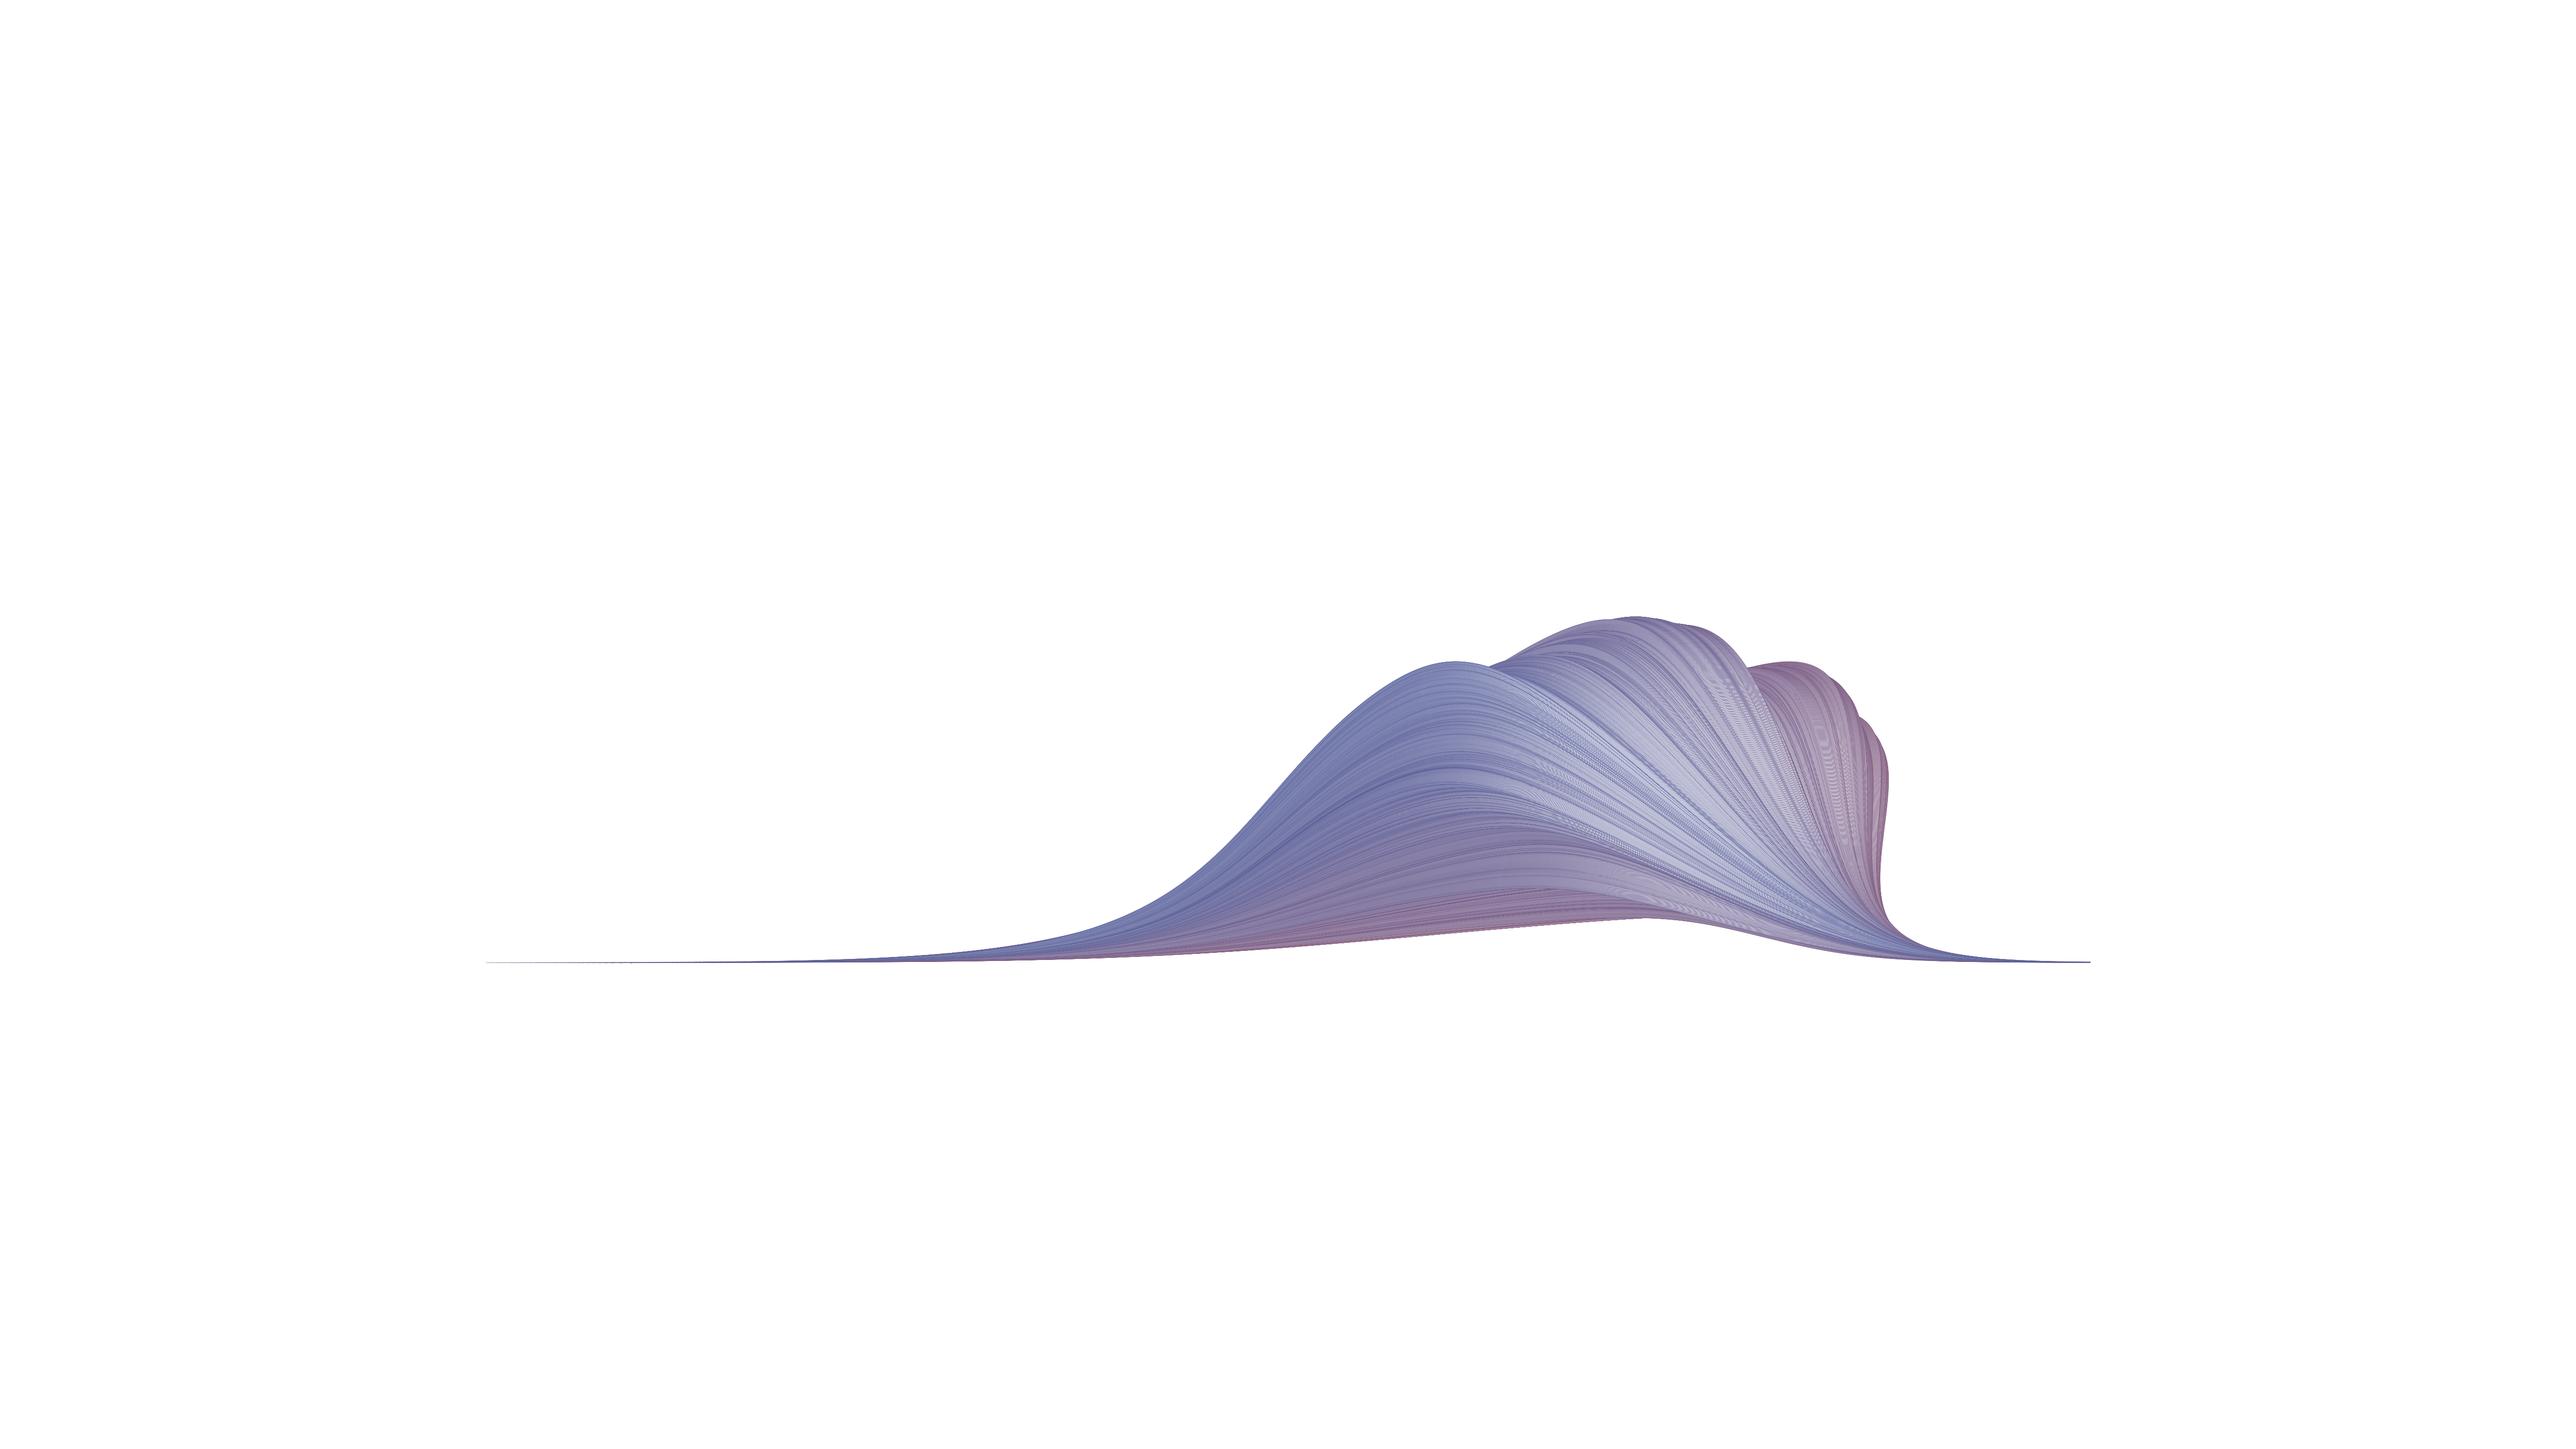
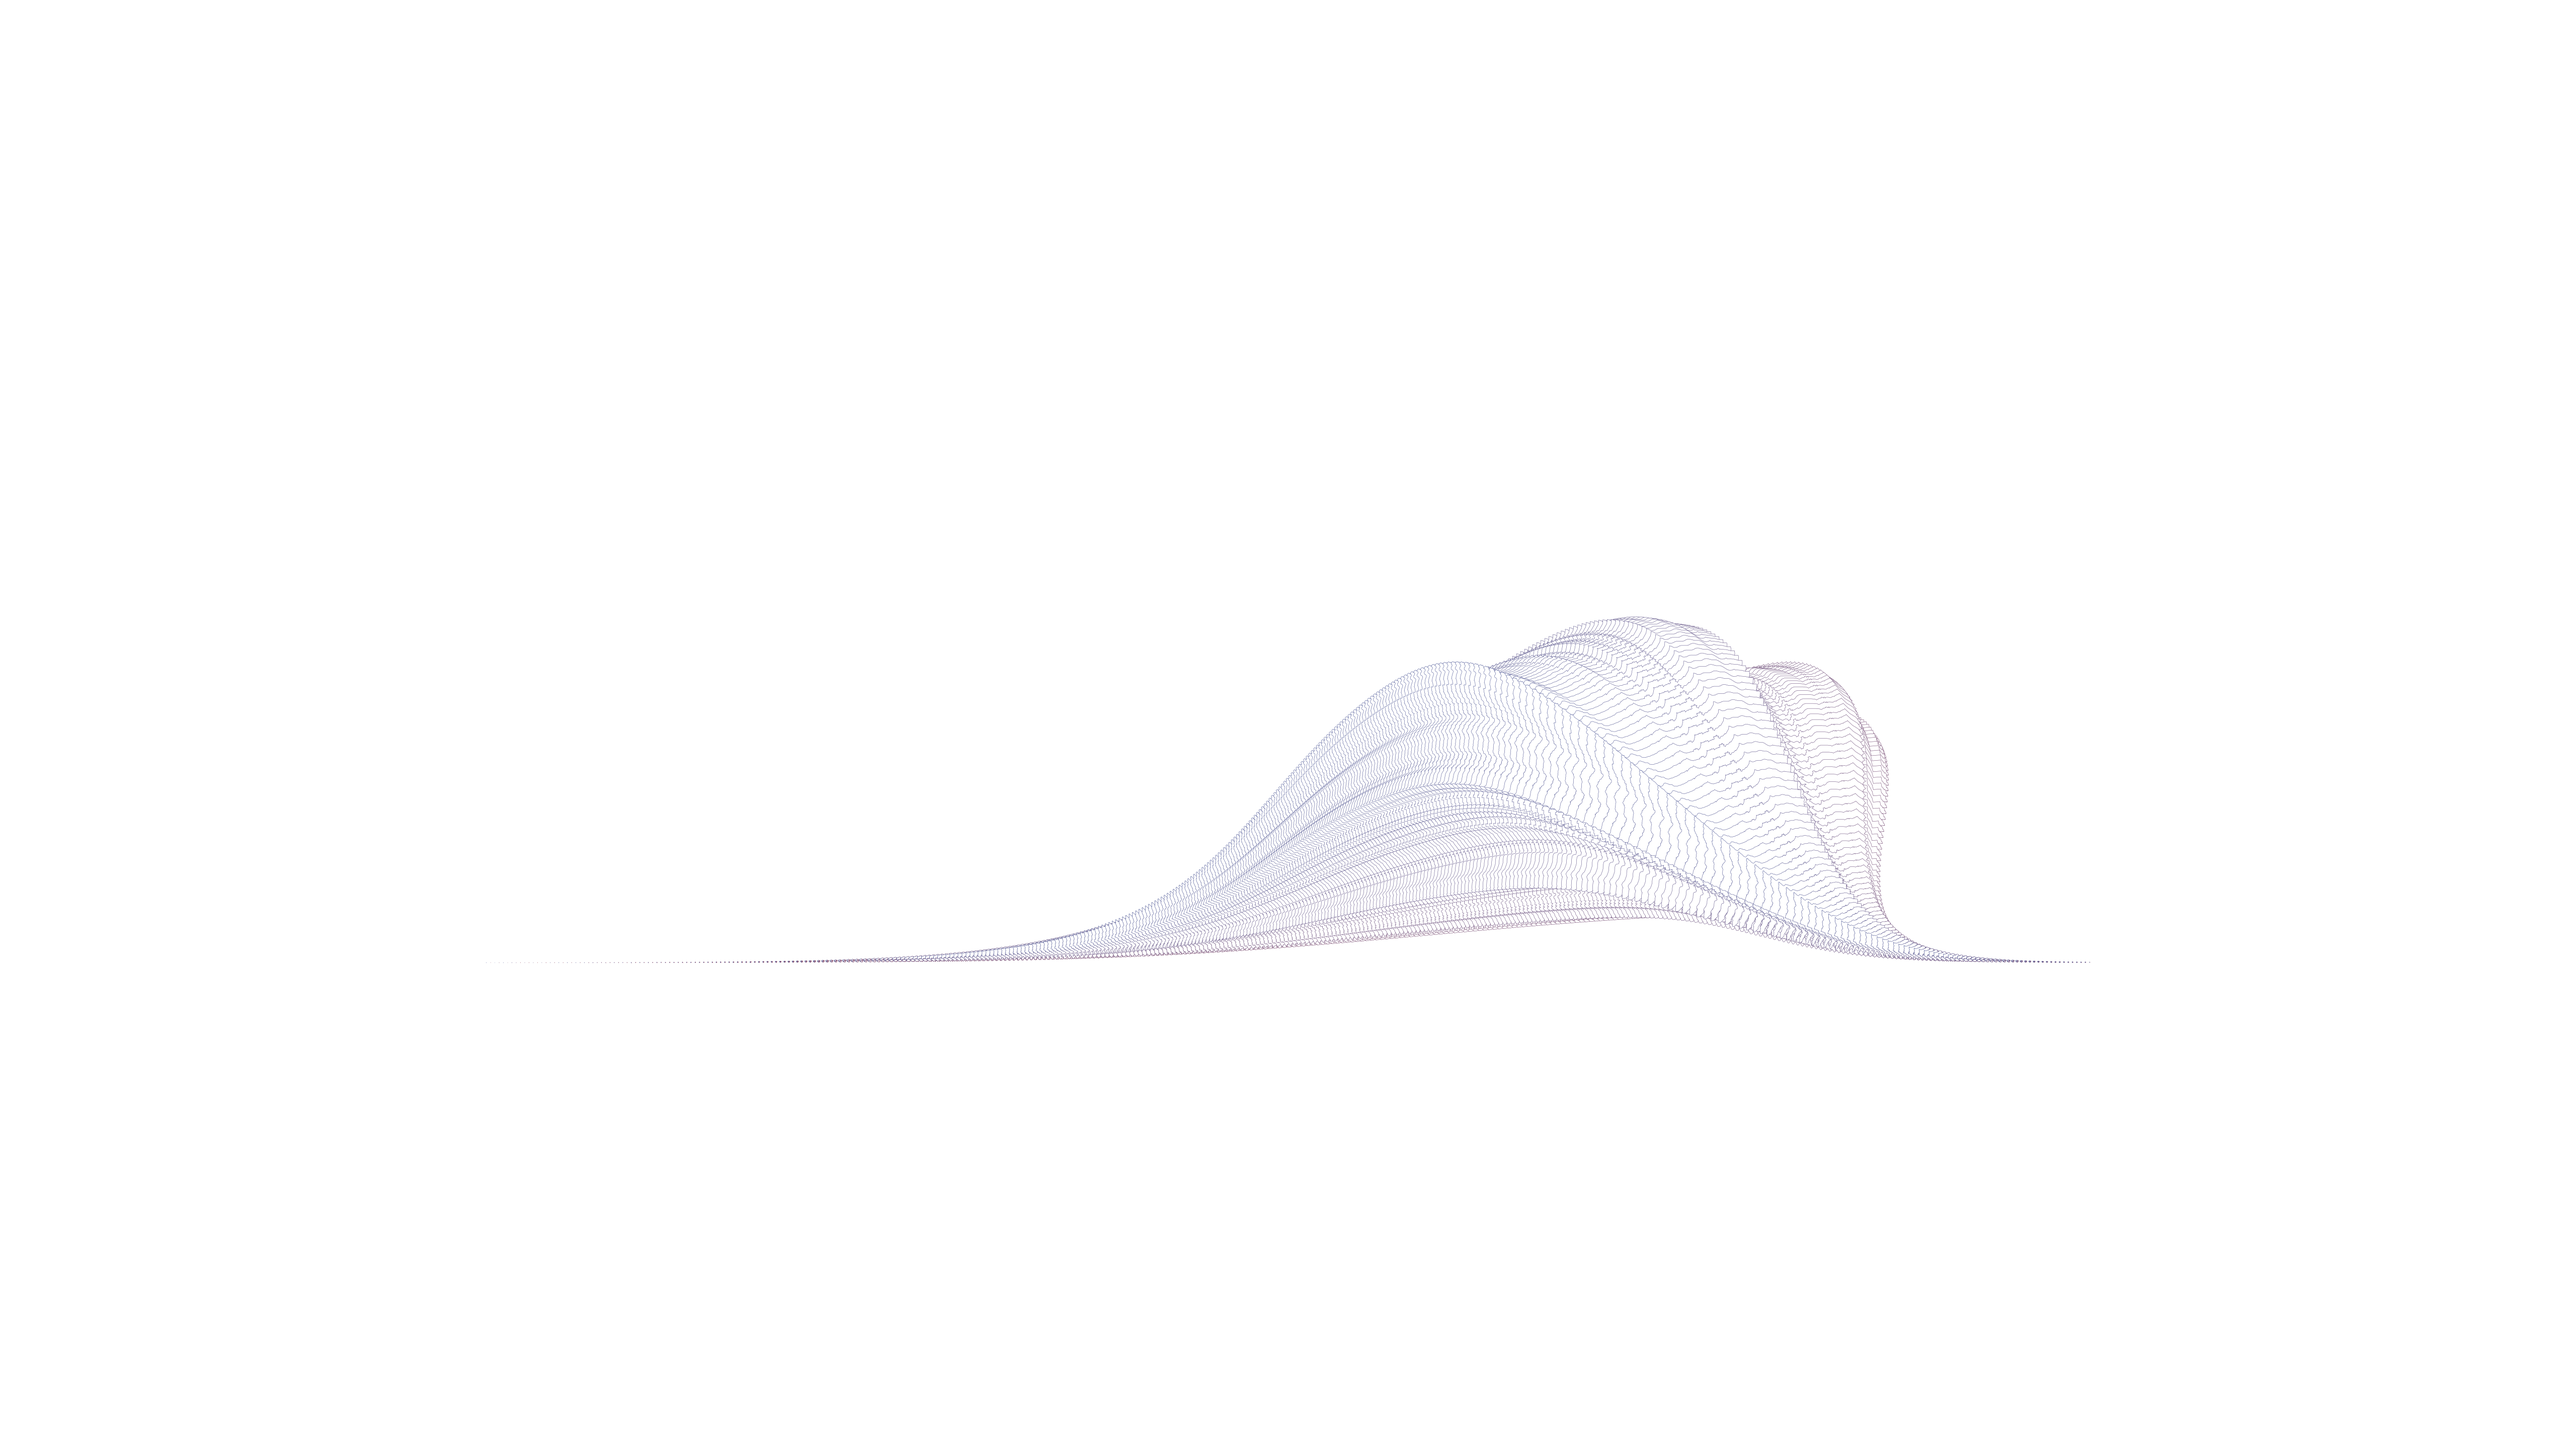
update output and change variant selection

Changed region(s): [[0.3438, 0.4062, 0.7812, 0.6875]]

diff --git a/index.js b/index.js
@@ -14,8 +14,7 @@ const { variantColors } = require('./colors');
   
   // plot
   const variants = [...new Set(data.map(d => d.variant))]
-    .filter(d => !config.excludeVariants.includes(d));
-    // .filter(d => /^voc/ig.test(d));
+    .filter(d => config.variants.includes(d));
 
   for (variant of variants) {
     // loop through variants
@@ -31,7 +30,7 @@ const { variantColors } = require('./colors');
     const { color1, color2 } = variantColors.find(d => d.variant === variant);
 
     if (variant === 'B') {
-      // plotMarks(ctx, xScale, yScale, config.dateLabels);
+      plotMarks(ctx, xScale, yScale, config.dateLabels);
     }
 
     plotFlow(ctx,

diff --git a/config.js b/config.js
@@ -1,11 +1,9 @@
 module.exports = {
   mutantDataPath: 'data/mutant_data.csv',
   shapePath: 'data/london.json',
-  excludeVariants: [
-    'B.1.1.1',
-    'B.1.1.257',
-    'B.1.1.315',
-    'B.1.98'
+  variants: [
+    //'B.1.177',
+    'VOC 202012/01'
   ],
   width: 2560 * 2,
   height: 1440 * 2,
@@ -14,7 +12,7 @@ module.exports = {
   lastFillColor: '#333333',
   lineWidth: 0.6,
   alpha: 1.0,
-  iterations: 13,
+  iterations: 1,
   dateLabels: [
     new Date(2020, 2, 1),
     new Date(2020, 7, 1),
